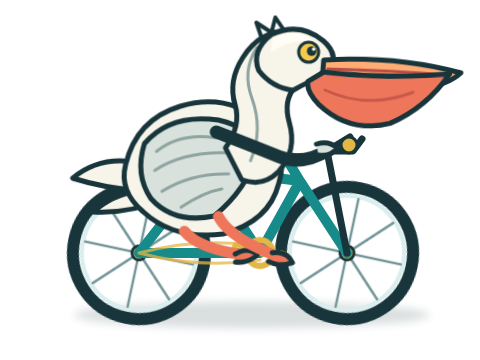
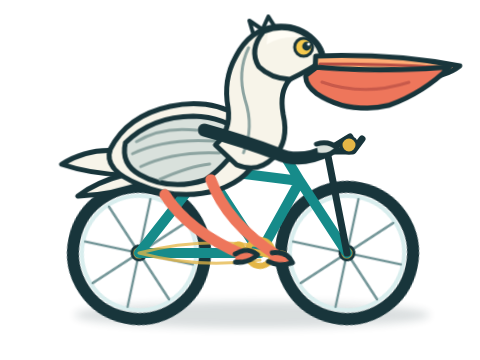
Refine pelican proportions

Changed region(s): [[0.125, 0.0306, 0.9688, 0.7333]]

diff --git a/pelican-bike/index.html b/pelican-bike/index.html
@@ -59,33 +59,33 @@
           </g>
 
           <g class="pelican-body">
-            <path class="tail" d="M144 163Q102 153 73 177Q104 187 139 190Q112 194 93 211Q130 213 166 198Z" />
-            <path class="body" d="M126 164Q137 119 181 106Q229 92 264 124Q290 148 279 184Q269 222 223 234Q174 240 143 211Q119 190 126 164Z" />
-            <path class="wing" d="M145 143Q171 113 219 120Q250 127 259 151Q247 190 214 216Q174 224 151 198Q135 174 145 143Z" />
-            <path class="wing-detail" d="M157 151Q181 132 217 138M155 170Q184 151 230 153M162 191Q191 173 229 174M181 207Q204 192 222 189" />
-            <path class="neck" d="M226 148Q242 126 236 105Q229 81 244 58Q261 31 291 31Q315 31 329 49Q337 60 331 75Q309 74 296 88Q284 101 290 123Q298 151 279 172Q263 188 242 180Z" />
-            <path class="neck-line" d="M258 48Q243 71 253 99Q264 130 251 161" />
-            <path class="head-feathers" d="M263 38L258 23L273 33L277 18L287 33" />
-            <path class="head" d="M273 35Q302 22 325 42Q342 57 329 75Q310 82 294 91Q273 88 260 71Q252 51 273 35Z" />
-            <path class="head-highlight" d="M274 39Q299 27 317 43Q293 38 272 53Z" />
-            <circle class="eye-ring" cx="310" cy="53" r="10" />
-            <circle class="eye" cx="313" cy="52" r="4.8" />
-            <circle class="eye-glint" cx="315" cy="50" r="1.7" />
-            <path class="beak" d="M325 61Q397 57 462 75Q449 87 423 90Q374 94 323 83Z" />
-            <path class="beak-line" d="M329 70Q393 72 448 77" />
-            <path class="pouch" d="M325 73Q389 82 451 78Q427 111 390 126Q349 135 319 105Q307 92 309 82Z" />
-            <path class="pouch-highlight" d="M326 91Q368 111 414 94" />
+            <path class="tail" d="M127 151Q91 145 62 163Q91 173 125 174Q96 181 78 195Q113 194 147 181Z" />
+            <path class="body" d="M111 148Q128 115 171 106Q211 98 239 116Q263 131 258 153Q253 178 218 190Q177 201 140 184Q103 169 111 148Z" />
+            <path class="wing" d="M126 142Q153 116 194 116Q226 117 244 135Q231 163 205 180Q169 191 140 174Q121 163 126 142Z" />
+            <path class="wing-detail" d="M137 141Q162 126 197 130M133 153Q165 138 215 141M141 166Q174 151 220 153M160 179Q190 166 210 164" />
+            <path class="neck" d="M216 145Q232 130 229 108Q224 80 237 57Q251 30 277 27Q300 25 315 40Q328 53 323 67Q304 68 291 80Q280 92 284 115Q290 142 274 158Q258 174 237 165Z" />
+            <path class="neck-line" d="M250 48Q238 72 246 100Q255 128 244 153" />
+            <path class="head-feathers" d="M255 35L251 21L264 30L270 17L278 30" />
+            <path class="head" d="M265 32Q288 23 308 36Q324 47 323 62Q312 70 291 80Q272 79 260 67Q250 50 265 32Z" />
+            <path class="head-highlight" d="M269 34Q290 27 305 39Q286 35 268 45Z" />
+            <circle class="eye-ring" cx="305" cy="48" r="9" />
+            <circle class="eye" cx="308" cy="47" r="4.4" />
+            <circle class="eye-glint" cx="310" cy="45" r="1.5" />
+            <path class="beak" d="M317 57Q391 54 461 68Q447 79 419 81Q367 83 316 76Z" />
+            <path class="beak-line" d="M321 65Q388 65 448 70" />
+            <path class="pouch" d="M318 68Q384 75 451 71Q425 96 389 108Q348 116 317 94Q306 85 307 76Z" />
+            <path class="pouch-highlight" d="M323 83Q364 98 410 84" />
 
             <g class="wing-arm">
-              <path d="M217 132Q250 145 279 157Q302 167 329 151" />
+              <path d="M205 130Q244 141 277 154Q300 165 329 151" />
               <path d="M317 145Q329 141 338 149Q331 158 319 156" />
             </g>
             <g class="leg leg-back">
-              <path d="M183 220Q194 239 238 252" />
+              <path d="M169 181Q187 221 238 252" />
               <path class="foot" d="M230 250Q243 244 252 254Q241 261 229 258" />
             </g>
             <g class="leg leg-front">
-              <path d="M218 218Q232 239 281 252" />
+              <path d="M207 182Q227 224 281 252" />
               <path class="foot" d="M275 249Q290 246 296 257Q284 263 272 258" />
             </g>
           </g>

diff --git a/pelican-bike/main.js b/pelican-bike/main.js
@@ -98,10 +98,10 @@ if (runtime) {
     regions: [
       { shape: 'ellipse', action: 'drag', x: 73, y: 187, width: 132, height: 132, hostGestures: ['move', 'scale-wheel', 'scale-hold'] },
       { shape: 'ellipse', action: 'drag', x: 281, y: 187, width: 132, height: 132, hostGestures: ['move', 'scale-wheel', 'scale-hold'] },
-      { shape: 'ellipse', action: 'drag', x: 118, y: 95, width: 170, height: 145, hostGestures: ['move', 'scale-wheel', 'scale-hold'] },
-      { shape: 'ellipse', action: 'drag', x: 232, y: 18, width: 108, height: 172, hostGestures: ['move', 'scale-wheel', 'scale-hold'] },
+      { shape: 'ellipse', action: 'drag', x: 102, y: 99, width: 165, height: 101, hostGestures: ['move', 'scale-wheel', 'scale-hold'] },
+      { shape: 'ellipse', action: 'drag', x: 217, y: 16, width: 108, height: 158, hostGestures: ['move', 'scale-wheel', 'scale-hold'] },
       { shape: 'polygon', action: 'drag', points: [
-        { x: 304, y: 55 }, { x: 466, y: 70 }, { x: 451, y: 94 }, { x: 414, y: 124 }, { x: 337, y: 131 }, { x: 306, y: 101 }
+        { x: 298, y: 50 }, { x: 466, y: 64 }, { x: 451, y: 82 }, { x: 415, y: 101 }, { x: 343, y: 116 }, { x: 306, y: 95 }
       ], hostGestures: ['move', 'scale-wheel', 'scale-hold'] }
     ]
   })
